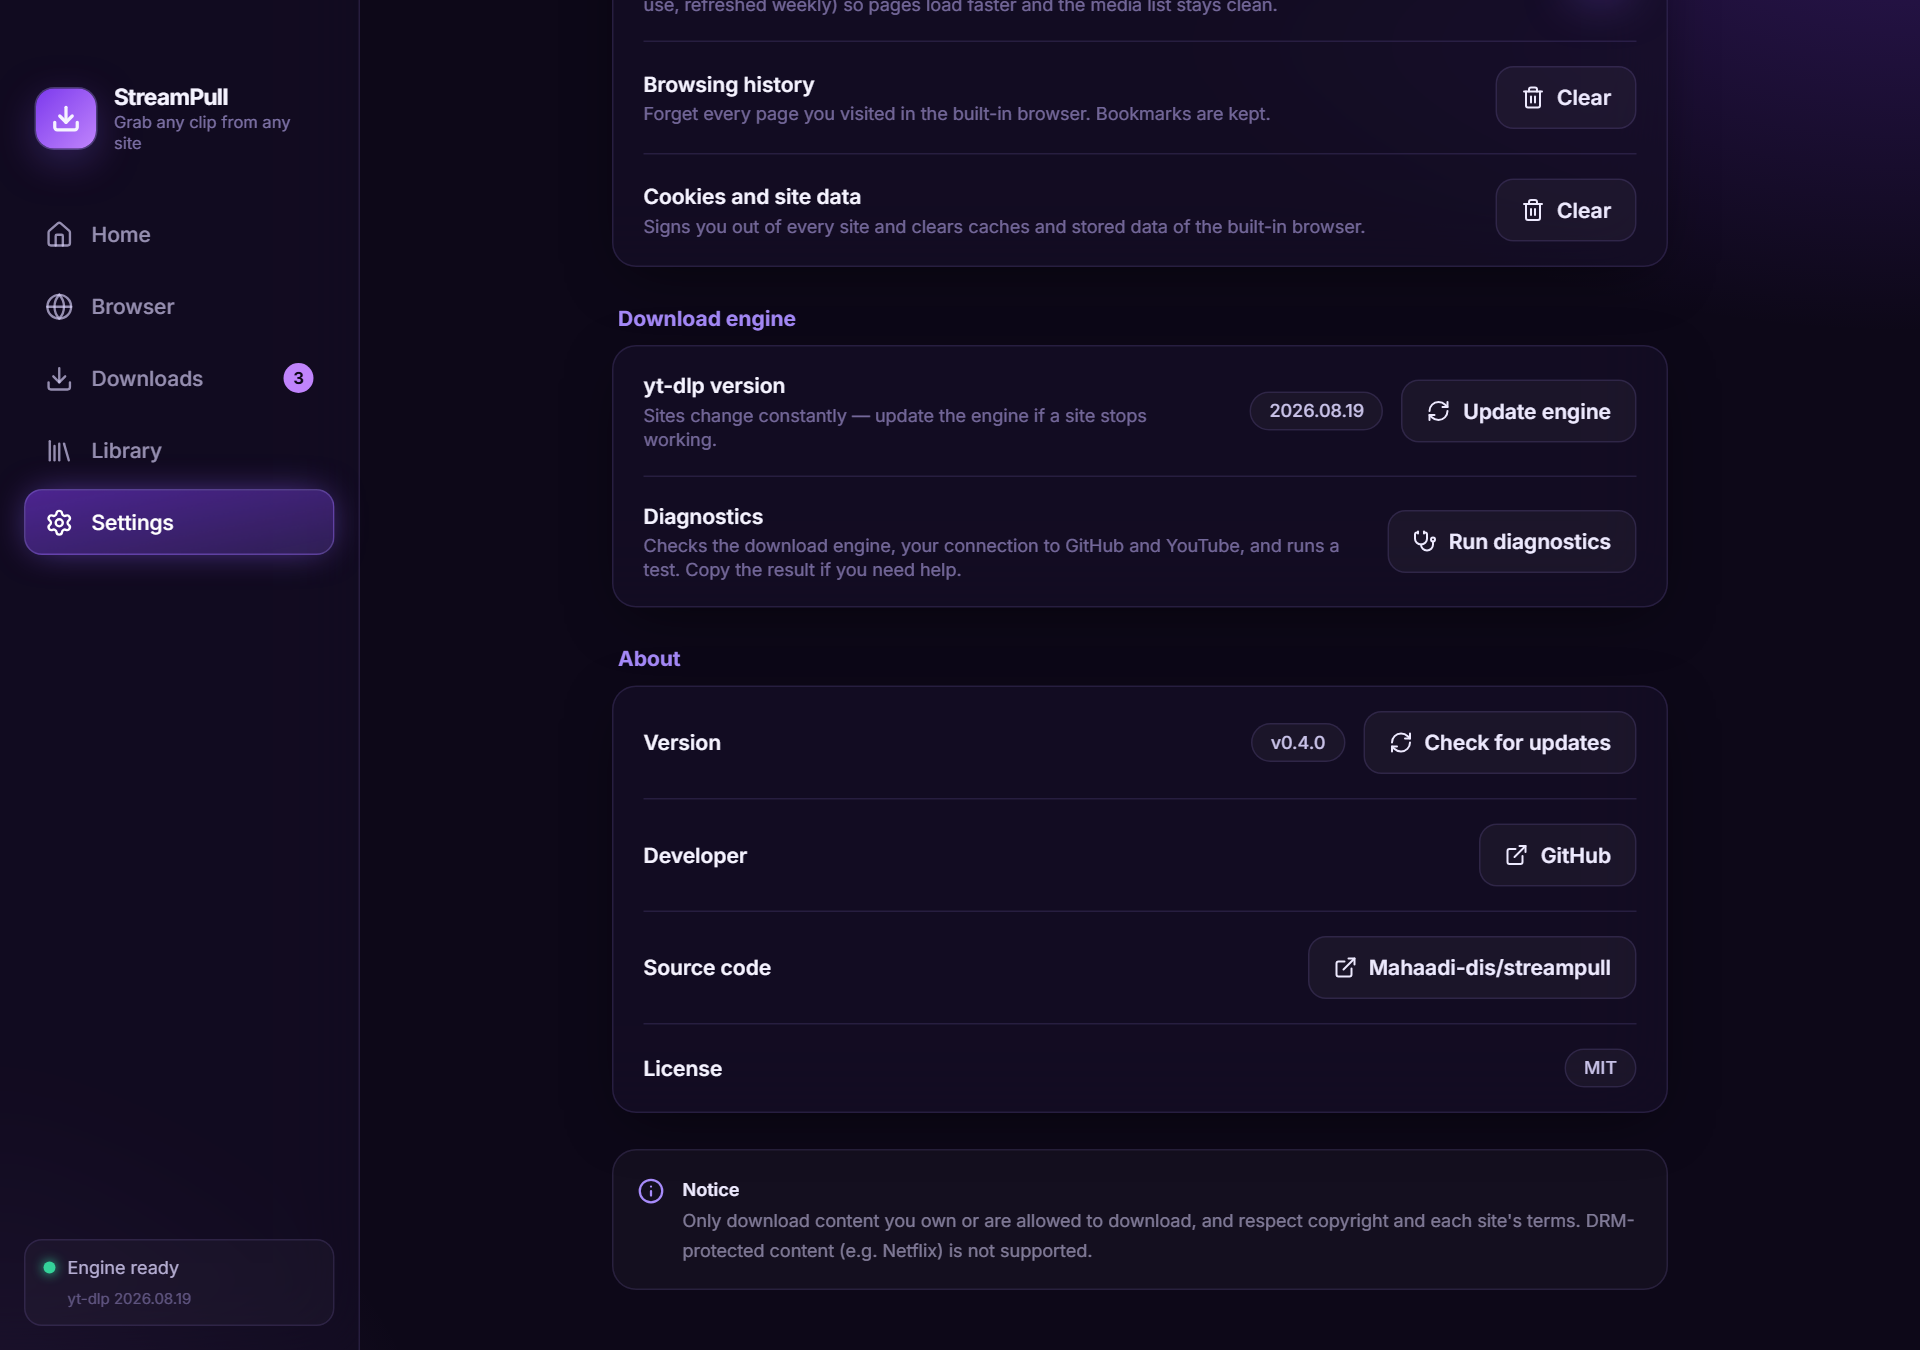
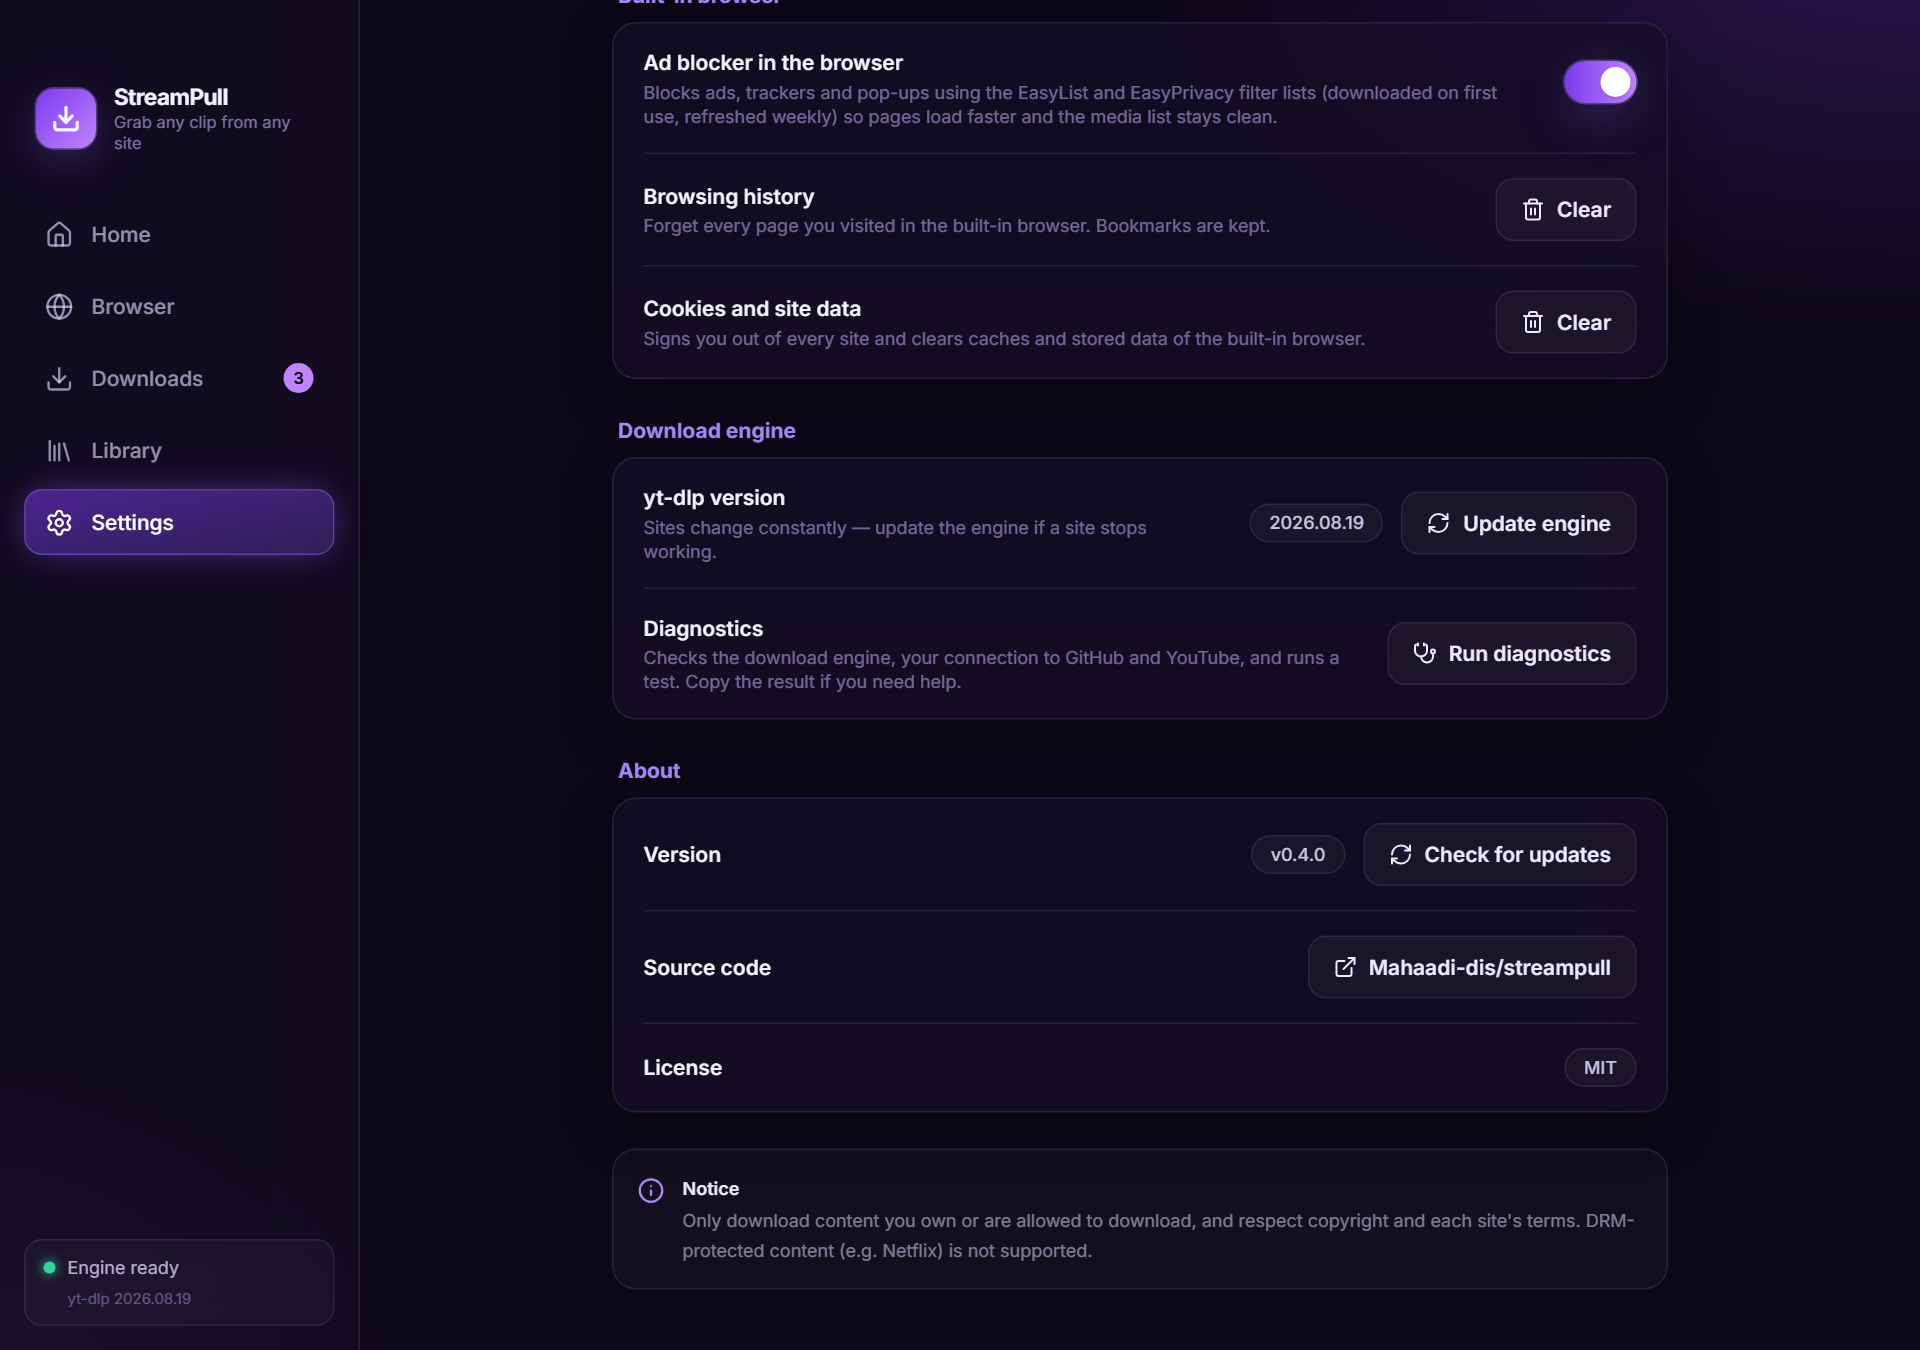
Release 0.4.1: About section (version, update check), Android fixes, new screenshots
- About card in both apps: version, 'Check for updates', source link, license
- Android: yt-dlp is never run while an engine update replaces it (first-run analyze failure),
  library card no longer overflows on narrow phones, app font in all buttons
- README: Android section, theme galleries and About screenshots in Arabic and English

diff --git a/src/renderer/src/pages/Settings.tsx b/src/renderer/src/pages/Settings.tsx
@@ -54,7 +54,6 @@ function Section({ title, children }: { title: string; children: React.ReactNode
   )
 }
 
-const DEVELOPER_URL = 'https://github.com/Mahaadi-dis'
 const REPO_URL = 'https://github.com/Mahaadi-dis/streampull'
 
 /** Version, "check for updates", developer and source links. */
@@ -98,11 +97,6 @@ function About(): React.JSX.Element {
             {check === 'checking' ? t('about.checking') : t('about.check')}
           </button>
         </div>
-      </Row>
-      <Row label={t('about.developer')}>
-        <button className="btn-ghost" onClick={() => void window.api.openExternal(DEVELOPER_URL)}>
-          <ExternalLink size={16} /> {t('about.github')}
-        </button>
       </Row>
       <Row label={t('about.source')}>
         <button className="btn-ghost" onClick={() => void window.api.openExternal(REPO_URL)}>

diff --git a/mobile/lib/ui/settings/settings_page.dart b/mobile/lib/ui/settings/settings_page.dart
@@ -178,14 +178,6 @@ class _AboutSectionState extends State<_AboutSection> {
         ]),
       ),
       _Row(
-        m.t('about.developer'),
-        trailing: OutlinedButton.icon(
-          onPressed: () => m.api.openExternal(developerUrl),
-          icon: const Icon(Icons.open_in_new_rounded, size: 16),
-          label: Text(m.t('about.github')),
-        ),
-      ),
-      _Row(
         m.t('about.source'),
         trailing: OutlinedButton.icon(
           onPressed: () => m.api.openExternal(repoUrl),

diff --git a/mobile/lib/core/updates.dart b/mobile/lib/core/updates.dart
@@ -9,7 +9,6 @@ import 'version.dart';
 
 const repo = 'Mahaadi-dis/streampull';
 const repoUrl = 'https://github.com/$repo';
-const developerUrl = 'https://github.com/Mahaadi-dis';
 const releasesPage = '$repoUrl/releases';
 
 class UpdateInfo {

diff --git a/README.md b/README.md
@@ -51,7 +51,7 @@ StreamPull is a desktop (and, new in 0.4.0, Android) alternative to browser exte
   <img src="docs/screenshots/downloads-en.png" width="400" alt="Downloads" />
 </p>
 <p align="center">
-  <img src="docs/screenshots/about-en.png" width="400" alt="About: version, update check, developer" />
+  <img src="docs/screenshots/about-en.png" width="400" alt="About: version and update check" />
 </p>
 
 ### Six color themes
